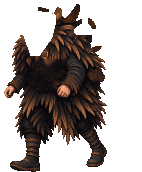
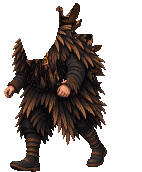
Pixel figures: head nod, NecroDancer timing, no dark trail behind pieces
The body drops on the beat and is back by 0.1 s (StreetBackdrop._bob, the
clip's timing), 8 art px deep. The head nods 3 px further and returns a frame
late; the bells and the coil fall and rise a frame late on one smooth curve.
Behind each piece the body now holds the picture around it mirrored instead
of a dark inpainted smudge; specks between pieces move with them and a piece
the head hides carries on under it.

Claude-Session: https://claude.ai/code/session_01NU82NZQo49UMwoRckZz3mp

diff --git a/tools/art/pixel3d/bake_ai_figures.py b/tools/art/pixel3d/bake_ai_figures.py
@@ -100,6 +100,51 @@ def issohadore_pieces(a):
     return [("head", region(a, None, ISS["head"])), ("rope", coil)]
 
 
+def mirror_fill(s, src, hole, only_above=False):
+    """What lies behind `hole`, as the picture around it seen in a mirror at the hole's nearest edge:
+    a piece that moves a pixel or two up shows the fleece below it carrying on, one that moves down
+    the fleece above, with its strands and light (a smooth fill read as a dark smudge trailing the
+    piece). Up and down first, as the pieces mostly move that way; then across; else painted in.
+    only_above: for a piece that only ever moves down (the head nods): only the band its top edge
+    uncovers is filled, from what is above it; the rest of `done` is False and stays see-through
+    (a fill there showed as dark specks over the hood)."""
+    rgb = np.ascontiguousarray(np.where(src[..., None], s[..., :3], 0).astype(np.uint8))
+    out = cv2.inpaint(rgb, (~src).astype(np.uint8) * 255, 3, cv2.INPAINT_TELEA)
+    h, w = hole.shape
+    done = np.zeros_like(hole)
+    from_y = np.full(hole.shape, -1)
+
+    def runs(line):
+        idx = np.flatnonzero(line)
+        if idx.size == 0:
+            return []
+        cut = np.flatnonzero(np.diff(idx) > 1)
+        return list(zip(np.r_[idx[0], idx[cut + 1]], np.r_[idx[cut], idx[-1]] + 1))
+
+    for x in range(w):
+        for a, b in runs(hole[:, x]):
+            for y in range(a, b):
+                up, down = a - 1 - (y - a), b + (b - 1 - y)
+                order = (up,) if only_above else ((up, down) if y - a <= b - 1 - y else (down, up))
+                for sy in order:
+                    if 0 <= sy < h and src[sy, x]:
+                        out[y, x] = s[sy, x, :3]
+                        done[y, x] = True
+                        from_y[y, x] = sy
+                        break
+    if only_above:
+        return out, done, from_y
+    for y in range(h):
+        for a, b in runs(hole[y] & ~done[y]):
+            for x in range(a, b):
+                left, right = a - 1 - (x - a), b + (b - 1 - x)
+                for sx in ((left, right) if x - a <= b - 1 - x else (right, left)):
+                    if 0 <= sx < w and src[y, sx]:
+                        out[y, x] = s[y, sx, :3]
+                        break
+    return out, np.ones_like(hole), from_y
+
+
 def frame(a, name):
     """The crop and size that take the picture to the game's canvas."""
     ys, xs = np.nonzero(a[..., 3])
@@ -151,29 +196,61 @@ def bake(name, pieces_fn):
     # the body: the rest, with what the pieces cover painted in from around them, inside the body's
     # own outline (where a bell sticks out past the fleece, the body has nothing behind it)
     rest = opaque & ~taken
+    # specks of the body left between pieces (a fleece tip between the hood and a bell) would hang
+    # in the air when the pieces move: each goes to the piece it touches most
+    lab, n = ndimage.label(rest)
+    sizes = ndimage.sum(rest, lab, range(1, n + 1))
+    for i, z in enumerate(sizes, 1):
+        if z >= 15:
+            continue
+        speck = lab == i
+        ring = (cv2.dilate(speck.astype(np.uint8), np.ones((3, 3), np.uint8)) > 0) & ~speck
+        touch = [int((ring & m).sum()) for _, m in pieces]
+        if max(touch) > 0:
+            k = int(np.argmax(touch))
+            pieces[k] = (pieces[k][0], pieces[k][1] | speck)
+            taken |= speck
+    rest = opaque & ~taken
     core = cv2.morphologyEx(rest.astype(np.uint8), cv2.MORPH_CLOSE, cv2.getStructuringElement(cv2.MORPH_ELLIPSE, (13, 13))) > 0
     core = ndimage.binary_fill_holes(core)
     # ... and a band along every edge a piece shares with the body, as wide as a piece moves
     # ... and along every edge a piece shares with the body or with another piece (the hood and the
     # top bell move apart by a pixel or two: the sky must not show between them)
-    behind = taken & (core | (cv2.dilate(rest.astype(np.uint8), np.ones((7, 7), np.uint8)) > 0))
+    behind = taken & (core | (cv2.dilate(rest.astype(np.uint8), np.ones((9, 9), np.uint8)) > 0))
     for p, m in pieces:
-        behind |= m & (cv2.dilate((taken & ~m).astype(np.uint8), np.ones((7, 7), np.uint8)) > 0)
-    # each piece's share painted in from all that lies around it, the other pieces too (between the
-    # hood and a bell it is bronze and hood that show, not the fleece further off)
+        behind |= m & (cv2.dilate((taken & ~m).astype(np.uint8), np.ones((9, 9), np.uint8)) > 0)
+    # each piece's share painted in from around it, the other pieces too (between the hood and a bell
+    # it is bronze and hood that show, not the fleece further off)
     body = np.zeros_like(s)
     body[..., :3] = np.where(rest[..., None], s[..., :3], 0)
+    extra = {}
     for p, m in pieces:
-        src = opaque & ~m
-        rgb = np.ascontiguousarray(np.where(src[..., None], s[..., :3], 0).astype(np.uint8))
-        filled = cv2.inpaint(rgb, (~src).astype(np.uint8) * 255, 3, cv2.INPAINT_TELEA)
-        body[..., :3] = np.where((m & behind)[..., None], pal[px.nearest(filled, pal)], body[..., :3])
+        fill, ok, from_y = mirror_fill(s, opaque & ~m, m, p == "head")
+        behind &= ~m | ok
+        body[..., :3] = np.where((m & behind)[..., None], fill, body[..., :3])
+        if p == "head":
+            # where the head hides part of a piece behind it (the top bell under the hood), that
+            # piece carries on under the head instead, so the head's nod never chips it
+            ys, xs = np.nonzero(m & ok)
+            for q, (other, mq) in enumerate(pieces):
+                if other == p:
+                    continue
+                hit = mq[from_y[ys, xs], xs]
+                if hit.any():
+                    grow = np.zeros_like(mq)
+                    grow[ys[hit], xs[hit]] = True
+                    extra[other] = (grow, fill)
+                    behind &= ~grow
     keep = rest | behind
     body[..., 3] = np.where(keep, 255, 0)
     body[~keep] = 0
     out = {"body": body}
     for p, m in pieces:
         out[p] = np.where(m[..., None], s, 0).astype(np.uint8)
+        if p in extra:
+            grow, fill = extra[p]
+            out[p][grow, :3] = fill[grow]
+            out[p][grow, 3] = 255
     for p, img in out.items():
         # turned to face the road
         Image.fromarray(img[:, ::-1]).save(os.path.join(OUT, "%s_%s.png" % (name, p)))
